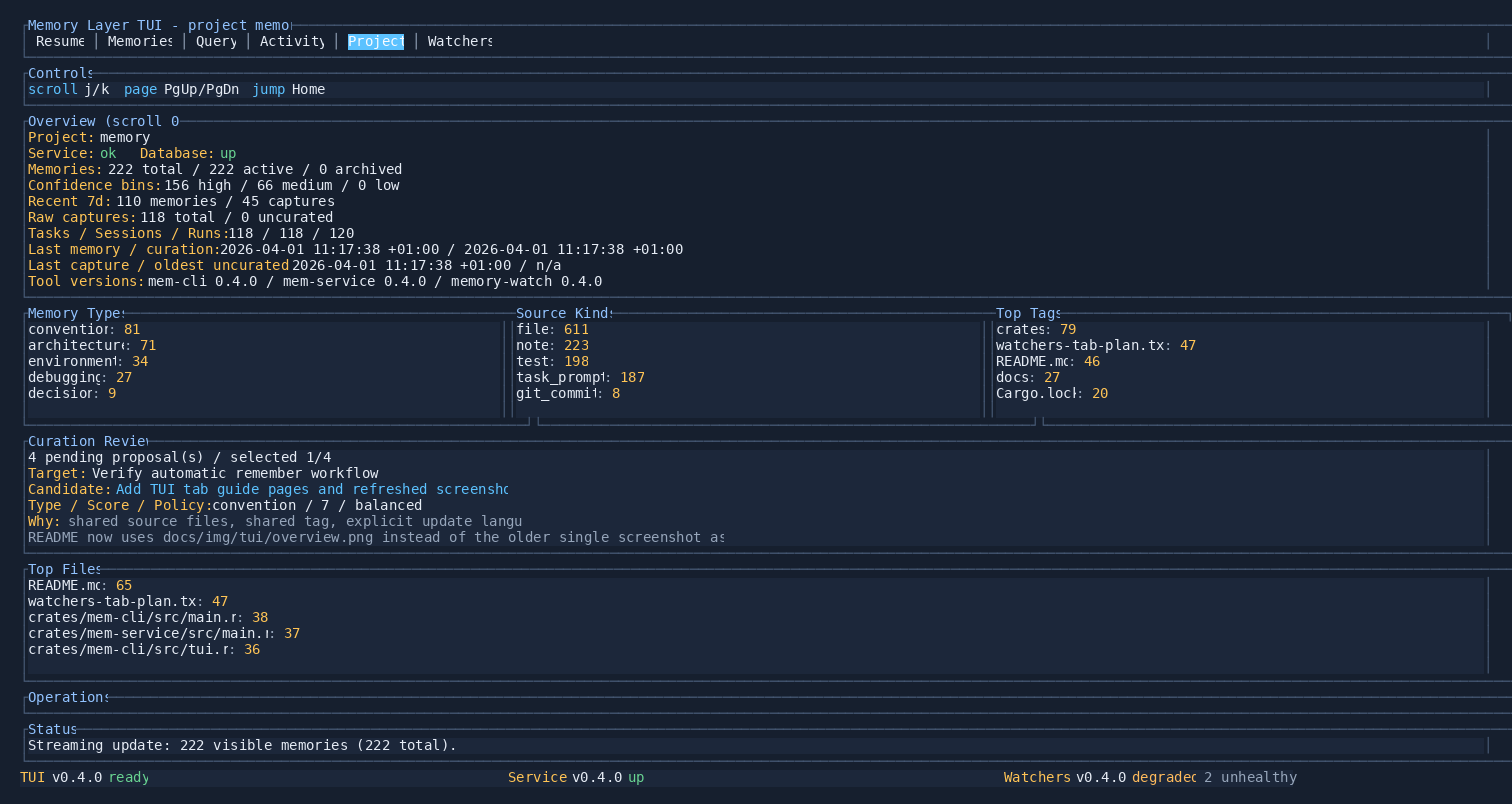
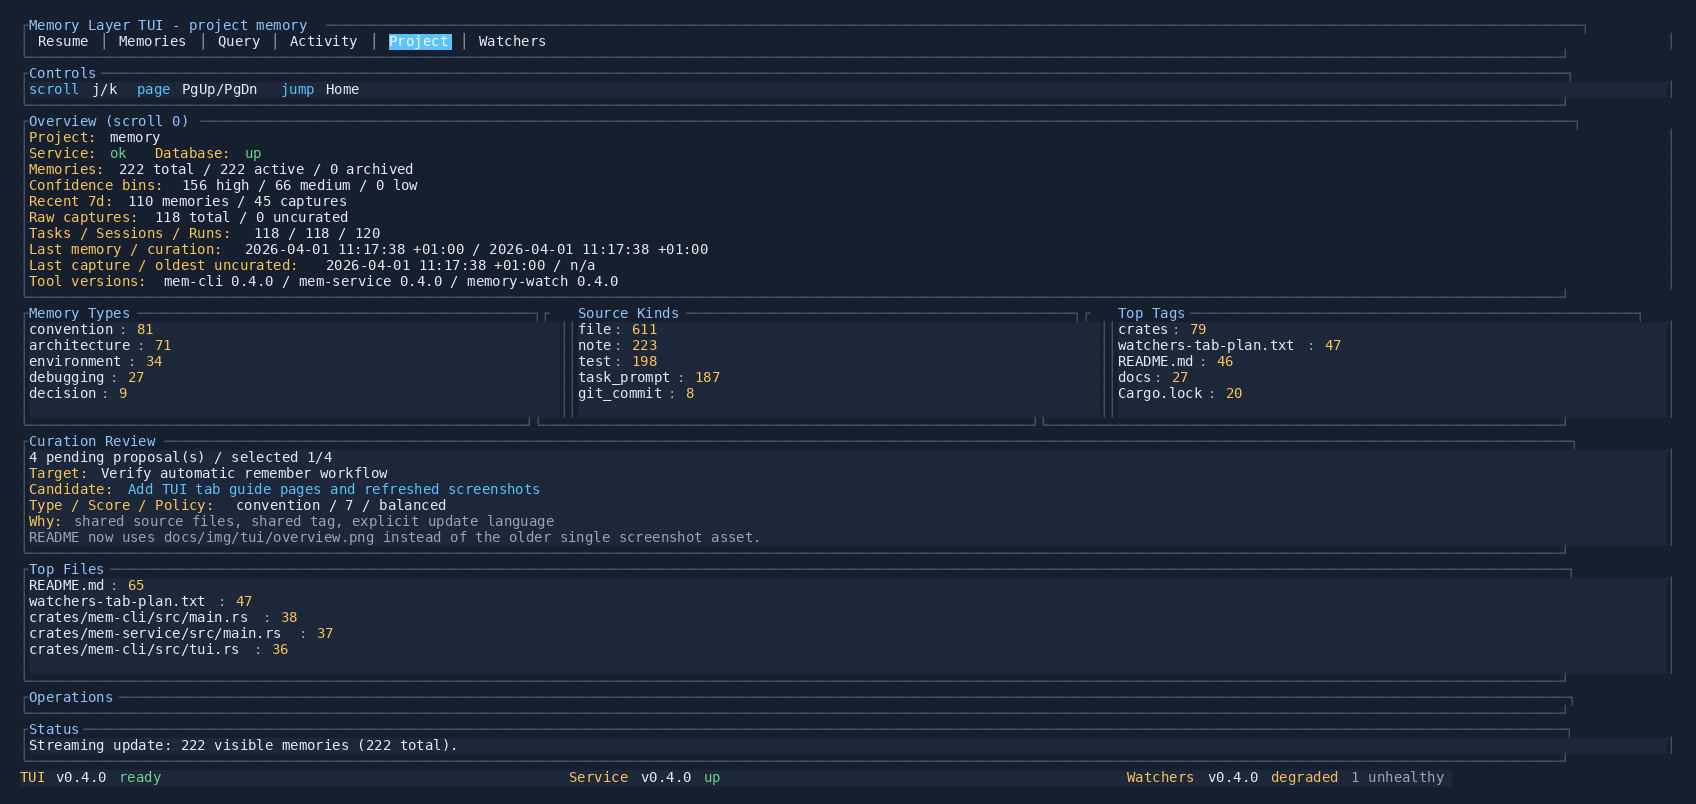
Fix: correct TUI screenshot cell width

diff --git a/scripts/generate-tui-doc-screenshots.py b/scripts/generate-tui-doc-screenshots.py
@@ -2,6 +2,7 @@
 from __future__ import annotations
 
 import os
+import math
 import subprocess
 import sys
 import time
@@ -143,7 +144,7 @@ def render_screen(payload: bytes, output_path: Path) -> None:
 
     font = ImageFont.truetype(FONT_NAME, FONT_SIZE)
     left, top, right, bottom = font.getbbox("M")
-    cell_width = max(8, right - left)
+    cell_width = max(8, math.ceil(font.getlength("M")))
     cell_height = max(16, bottom - top + 4)
     cols = max(len(line) for line in lines)
     rows = len(lines)
